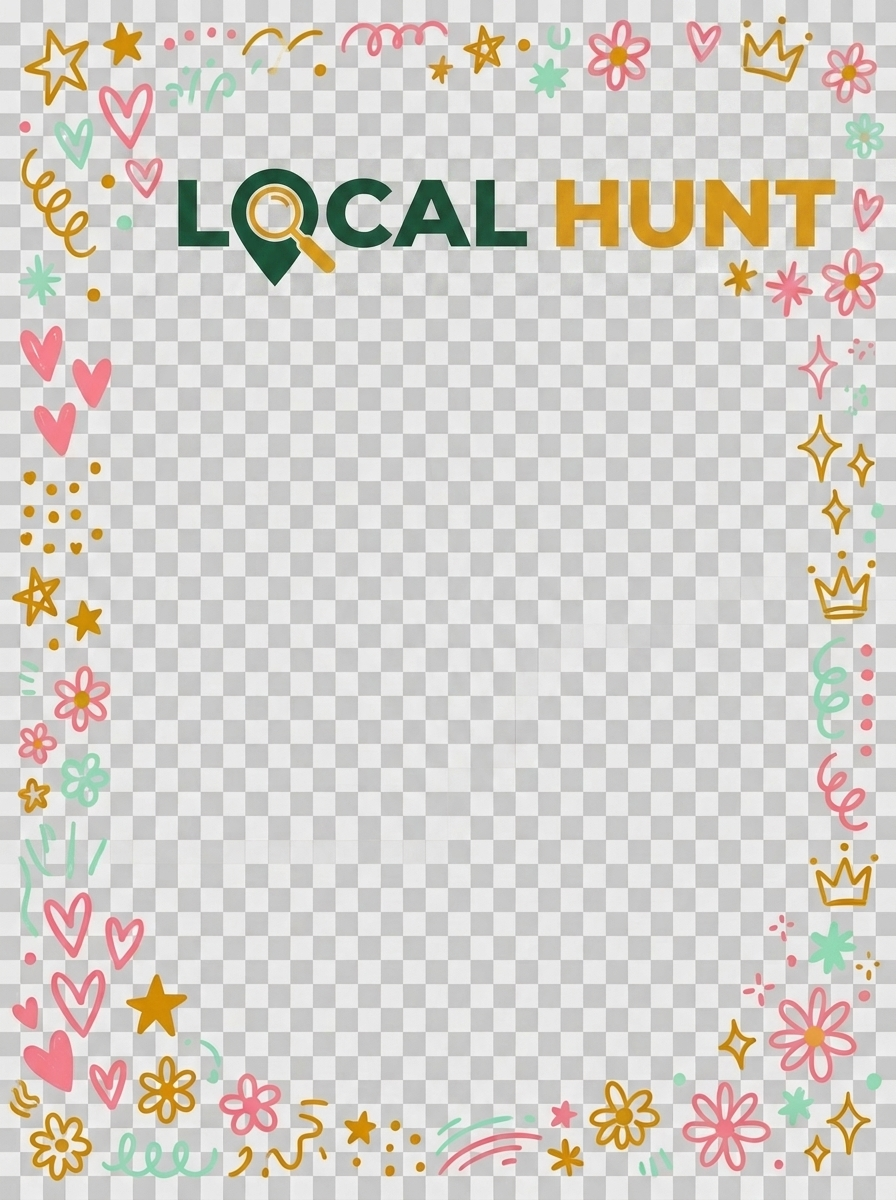
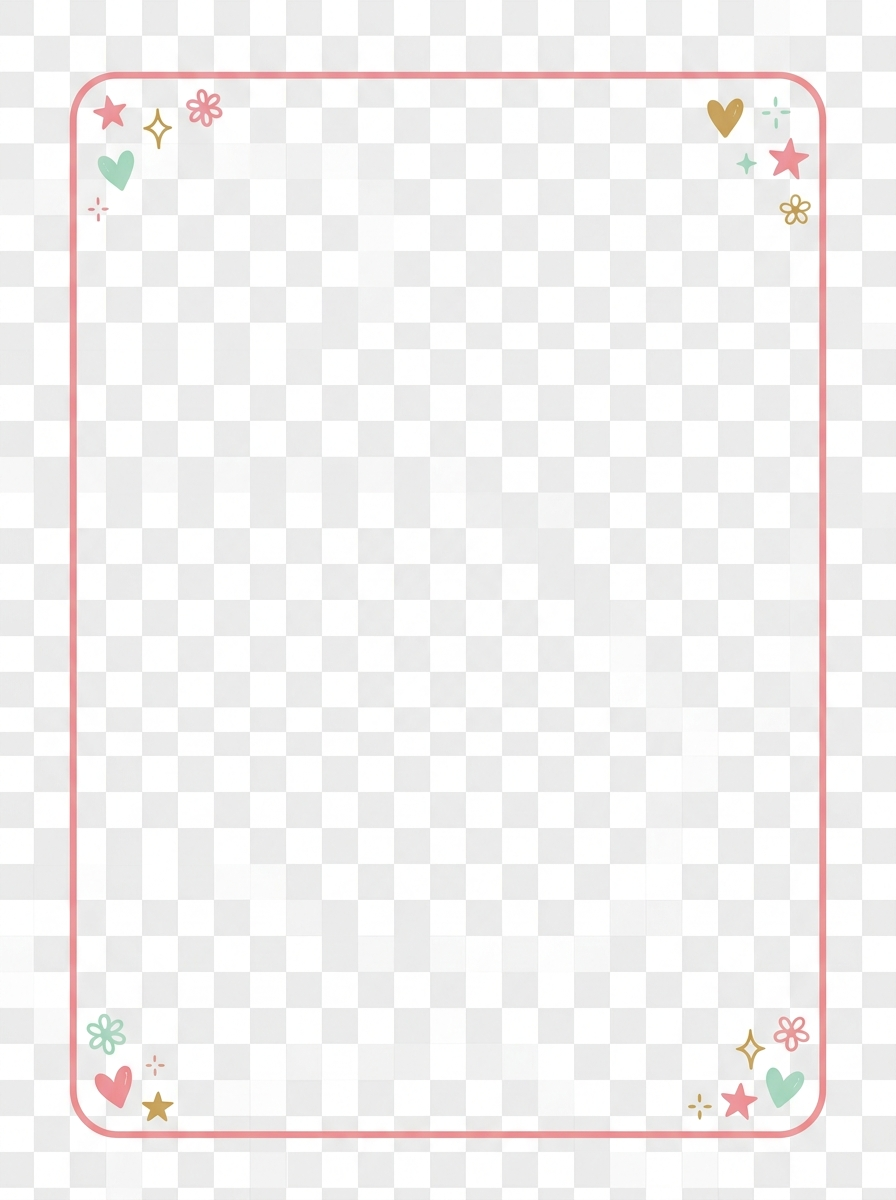
feat: bake overlay into video+photo, show overlay on review previews

diff --git a/public/localhunt.html b/public/localhunt.html
@@ -712,8 +712,11 @@
 
                     <div
                         style="flex: 1; display: flex; justify-content: center; align-items: center; width: 100%; min-height: 0; margin: 12px 0;">
-                        <video id="video-playback" controls
-                            style="max-height: 100%; max-width: 100%; width: auto; border-radius: 16px; box-shadow: 0 10px 25px rgba(0,0,0,0.12); object-fit: contain;"></video>
+                        <div style="position: relative; max-height: 100%; height: 100%; display: flex; align-items: center;">
+                            <video id="video-playback" controls
+                                style="max-height: 100%; max-width: 100%; width: auto; border-radius: 16px; box-shadow: 0 10px 25px rgba(0,0,0,0.12); object-fit: contain;"></video>
+                            <img src="/overlay-portrait.png" alt="" style="position: absolute; top: 0; left: 0; width: 100%; height: 100%; object-fit: fill; pointer-events: none; border-radius: 16px;" onerror="this.style.display='none'">
+                        </div>
                     </div>
 
                     <div style="display: flex; gap: 14px; width: 100%; max-width: 420px; flex-shrink: 0;">
@@ -761,10 +764,18 @@
 
                     <div
                         style="flex: 1; display: flex; gap: 15px; justify-content: center; align-items: center; width: 100%; min-height: 0; margin: 10px 0;">
-                        <video id="final-video-preview" autoplay muted loop
-                            style="max-height: 100%; max-width: 48%; border-radius: 14px; box-shadow: 0 8px 20px rgba(0,0,0,0.1); object-fit: contain;"></video>
-                        <img id="final-photo-preview"
-                            style="max-height: 100%; max-width: 48%; border-radius: 14px; object-fit: contain; box-shadow: 0 8px 20px rgba(0,0,0,0.1);">
+                        <!-- Video preview with overlay -->
+                        <div style="position: relative; max-height: 100%; max-width: 48%; display: flex; align-items: center; flex-shrink: 0;">
+                            <video id="final-video-preview" autoplay muted loop
+                                style="max-height: 100%; width: 100%; border-radius: 14px; box-shadow: 0 8px 20px rgba(0,0,0,0.1); object-fit: contain;"></video>
+                            <img src="/overlay-portrait.png" alt="" style="position: absolute; top: 0; left: 0; width: 100%; height: 100%; object-fit: fill; pointer-events: none; border-radius: 14px;" onerror="this.style.display='none'">
+                        </div>
+                        <!-- Photo preview with overlay -->
+                        <div style="position: relative; max-height: 100%; max-width: 48%; display: flex; align-items: center; flex-shrink: 0;">
+                            <img id="final-photo-preview"
+                                style="max-height: 100%; width: 100%; border-radius: 14px; object-fit: contain; box-shadow: 0 8px 20px rgba(0,0,0,0.1);">
+                            <img src="/overlay-portrait.png" alt="" style="position: absolute; top: 0; left: 0; width: 100%; height: 100%; object-fit: fill; pointer-events: none; border-radius: 14px;" onerror="this.style.display='none'">
+                        </div>
                     </div>
 
                     <div style="display: flex; gap: 10px; width: 100%; justify-content: center; flex-shrink: 0;">

diff --git a/public/js/index.js b/public/js/index.js
@@ -900,15 +900,22 @@
                 }, 50);
             }
 
+            // Pre-load overlay image for baking into video & photo
+            const overlayImg = new Image();
+            overlayImg.src = '/overlay-portrait.png';
+
             const rc = document.createElement('canvas'); const rctx = rc.getContext('2d');
             let isRec = true;
             const rloop = () => {
                 if (!isRec) return;
                 rc.width = webcam.videoWidth; rc.height = webcam.videoHeight;
                 rctx.save();
-                // Removed mirror logic for 'Normal' recording
                 rctx.drawImage(webcam, 0, 0);
                 if (window.enableGesture) rctx.drawImage(drawing, 0, 0);
+                // Bake overlay frame into recording
+                if (overlayImg.complete && overlayImg.naturalWidth > 0) {
+                    rctx.drawImage(overlayImg, 0, 0, rc.width, rc.height);
+                }
                 rctx.restore();
                 requestAnimationFrame(rloop);
             };
@@ -1015,6 +1022,12 @@
             const rctx = rc.getContext('2d');
             if (webcam) rctx.drawImage(webcam, 0, 0);
             if (window.enableGesture && drawing) rctx.drawImage(drawing, 0, 0);
+
+            // Bake overlay frame into photo
+            const overlayEl = document.getElementById('overlay-frame-img');
+            if (overlayEl && overlayEl.complete && overlayEl.naturalWidth > 0) {
+                rctx.drawImage(overlayEl, 0, 0, rc.width, rc.height);
+            }
 
             rc.toBlob((blob) => {
                 photoBlob = blob;
